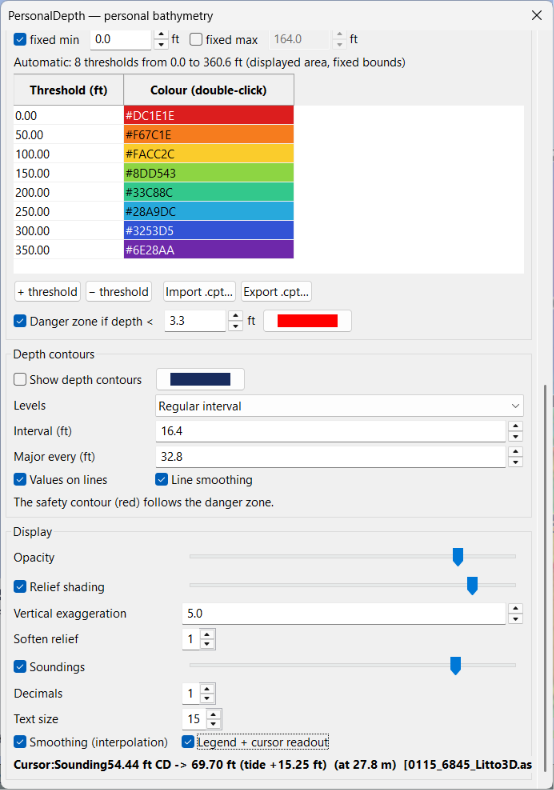
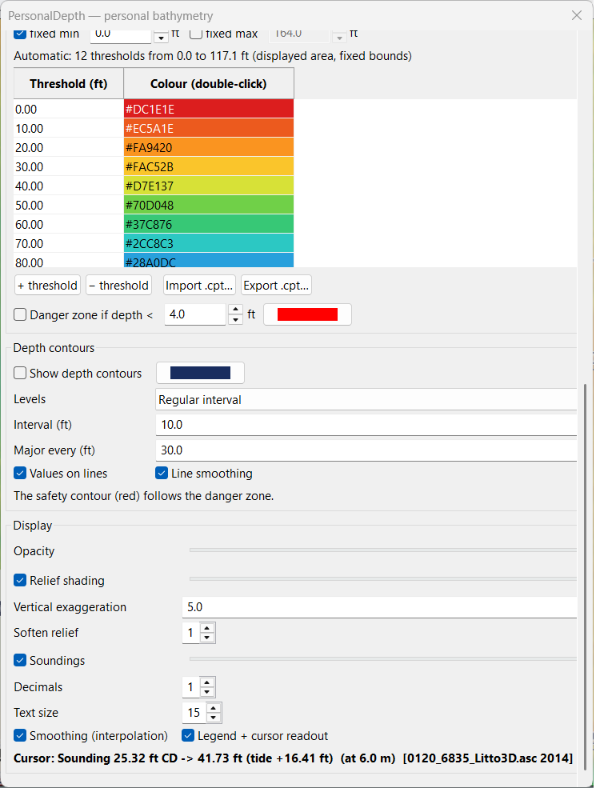
User guide screenshots, fix English spacing and size units

diff --git a/src/core/TideFES.cpp b/src/core/TideFES.cpp
@@ -601,10 +601,10 @@ bool FesTide::prepare(TideAtlas& atlas, double lonMin, double lonMax, double lat
   if (!nValid) { err = pd::tr("Zone hors du modèle de marée"); return false; }
   char b[200];
   auto pc = [&](size_t x) { return (int)std::lround(100.0 * x / nValid); };
-  std::snprintf(b, sizeof b, "Z0 : %s%s%s",
-                nUser ? (std::string("grille ") + std::to_string(pc(nUser)) + " % ").c_str() : "",
+  std::snprintf(b, sizeof b, pd::tr("Z0 : %s%s%s"),
+                nUser ? (std::string(pd::tr("grille ")) + std::to_string(pc(nUser)) + " % ").c_str() : "",
                 nEll ? (std::string("BathyElli ") + std::to_string(pc(nEll)) + " % ").c_str() : "",
-                nLat ? (std::string("PBMA FES ") + std::to_string(pc(nLat)) + " %").c_str() : "");
+                nLat ? (std::string(pd::tr("PBMA FES ")) + std::to_string(pc(nLat)) + " %").c_str() : "");
   info_ = b;
   if (nUser + nEll + nLat == 0) { err = pd::tr("Aucune référence ZH disponible pour la marée maillée"); return false; }
   region_ = std::move(r);

diff --git a/src/BathyDialog.cpp b/src/BathyDialog.cpp
@@ -224,9 +224,9 @@ struct CellItem : public wxClientData {
   std::string name;
 };
 wxString CellBytes(long long b) {
-  if (b >= (1LL << 30)) return wxString::Format("%.2f Go", b / double(1LL << 30));
-  if (b >= (1LL << 20)) return wxString::Format("%.0f Mo", b / double(1LL << 20));
-  return wxString::Format("%.0f ko", b / 1024.0);
+  if (b >= (1LL << 30)) return wxString::Format(U8("%.2f Go"), b / double(1LL << 30));
+  if (b >= (1LL << 20)) return wxString::Format(U8("%.0f Mo"), b / double(1LL << 20));
+  return wxString::Format(U8("%.0f ko"), b / 1024.0);
 }
 }  // namespace
 

diff --git a/src/DataDialog.cpp b/src/DataDialog.cpp
@@ -40,9 +40,9 @@ struct SourceItem : public wxClientData {
 };
 
 wxString Bytes(long long b) {
-  if (b >= (1LL << 30)) return wxString::Format("%.2f Go", b / double(1LL << 30));
-  if (b >= (1LL << 20)) return wxString::Format("%.0f Mo", b / double(1LL << 20));
-  return wxString::Format("%.0f ko", b / 1024.0);
+  if (b >= (1LL << 30)) return wxString::Format(U8("%.2f Go"), b / double(1LL << 30));
+  if (b >= (1LL << 20)) return wxString::Format(U8("%.0f Mo"), b / double(1LL << 20));
+  return wxString::Format(U8("%.0f ko"), b / 1024.0);
 }
 
 wxString Count(long long n) {

diff --git a/docs/guide-utilisateur.md b/docs/guide-utilisateur.md
@@ -102,7 +102,7 @@ Le panneau comprend cinq cadres, de haut en bas :
 | **Isobathes** | Intervalle, isobathes maîtresses, valeurs |
 | **Affichage** | Opacité, ombrage, sondes, lissage, légende |
 
-![Panneau principal](images/fr/03-main-panel.png)
+<img src="images/fr/03-main-panel_1.png" alt="Panneau principal (haut)" width="49%"> <img src="images/fr/03-main-panel_2.png" alt="Panneau principal (bas)" width="49%">
 
 Chaque réglage s'applique immédiatement sur la carte. Le panneau peut rester
 ouvert pendant l'utilisation d'OpenCPN ; le fermer conserve l'affichage.

diff --git a/docs/user-guide.md b/docs/user-guide.md
@@ -96,7 +96,7 @@ The panel is divided into five sections, from top to bottom:
 | **Depth contours** | Isobaths: interval, major lines, labels |
 | **Display** | Opacity, relief shading, soundings, smoothing, legend |
 
-![Main panel](images/en/03-main-panel.png)
+<img src="images/en/03-main-panel_1.png" alt="Main panel (top)" width="49%"> <img src="images/en/03-main-panel_2.png" alt="Main panel (bottom)" width="49%">
 
 Every change is applied immediately on the chart. The panel can stay open
 while you use OpenCPN; closing it keeps the display.
